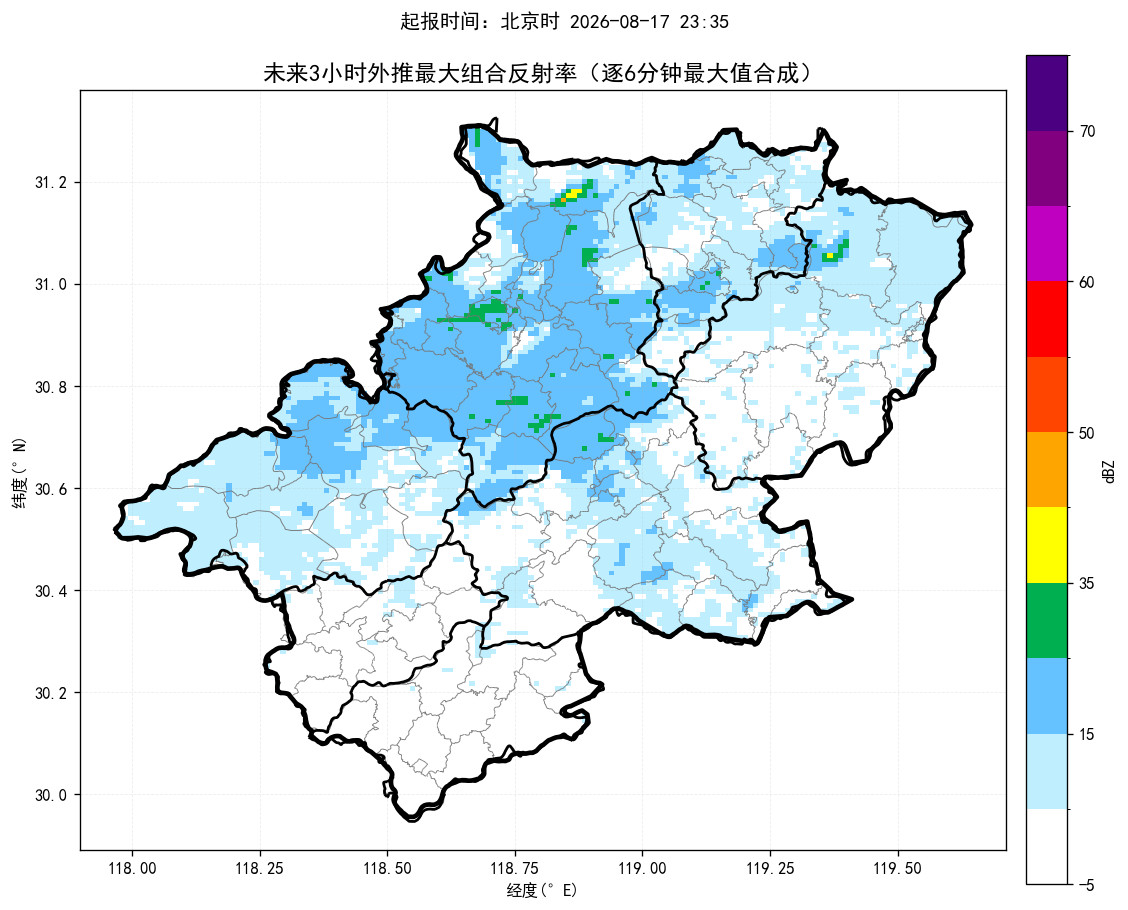
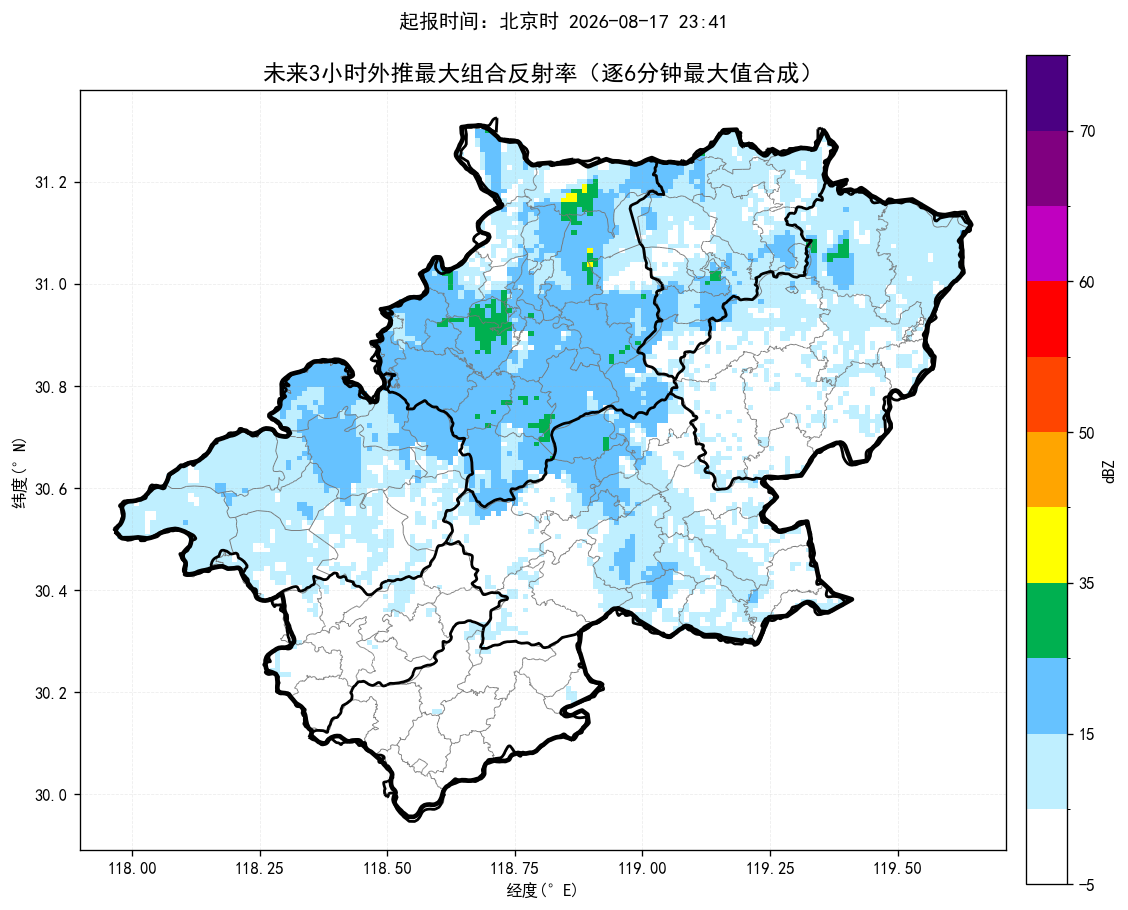
update nowcast products

diff --git a/index.html b/index.html
@@ -15,11 +15,11 @@ img.product{display:block;width:100%;height:auto;margin:10px auto 26px;border:1p
 .footer{font-size:13px;color:#777;text-align:center;margin-top:30px}
 @media(max-width:700px){.sheet{margin:0;padding:18px 15px}.alert-title{font-size:22px}.county-line{font-size:17px}.prob{font-size:18px}}
 </style></head><body><main class="sheet">
-<div class="time">起报时间：北京时 2026-08-17 23:35</div>
+<div class="time">起报时间：北京时 2026-08-17 23:41</div>
 <div class="alert-title">未来一小时降水量超过 20 毫米的乡镇：</div><div class="county-line">无</div>
 <div class="alert-title">未来三小时降水量超过 50 毫米的乡镇：</div><div class="county-line">无</div>
 <div class="alert-title">未来三小时雷暴大风（组合反射率 > 55 dBZ）的乡镇：</div><div class="county-line">无</div>
-<div class="prob">最大降水量概率预估：宣城市范围内未来三小时降水偏小，最大预报约11.9毫米，暂不进行50/80/100毫米概率预估。</div>
+<div class="prob">最大降水量概率预估：宣城市范围内未来三小时降水偏小，最大预报约6.8毫米，暂不进行50/80/100毫米概率预估。</div>
 <div class="section-title">未来降水预报图：</div><img class="product" src="短临降水预报.png" alt="未来降水预报图">
 <div class="section-title">未来三小时组合反射率图：</div><img class="product" src="未来3小时组合反射率.png" alt="未来三小时组合反射率图">
 <div class="section-title">未来三小时雷暴大风图：</div><img class="product" src="未来3小时雷暴大风.png" alt="未来三小时雷暴大风图">
